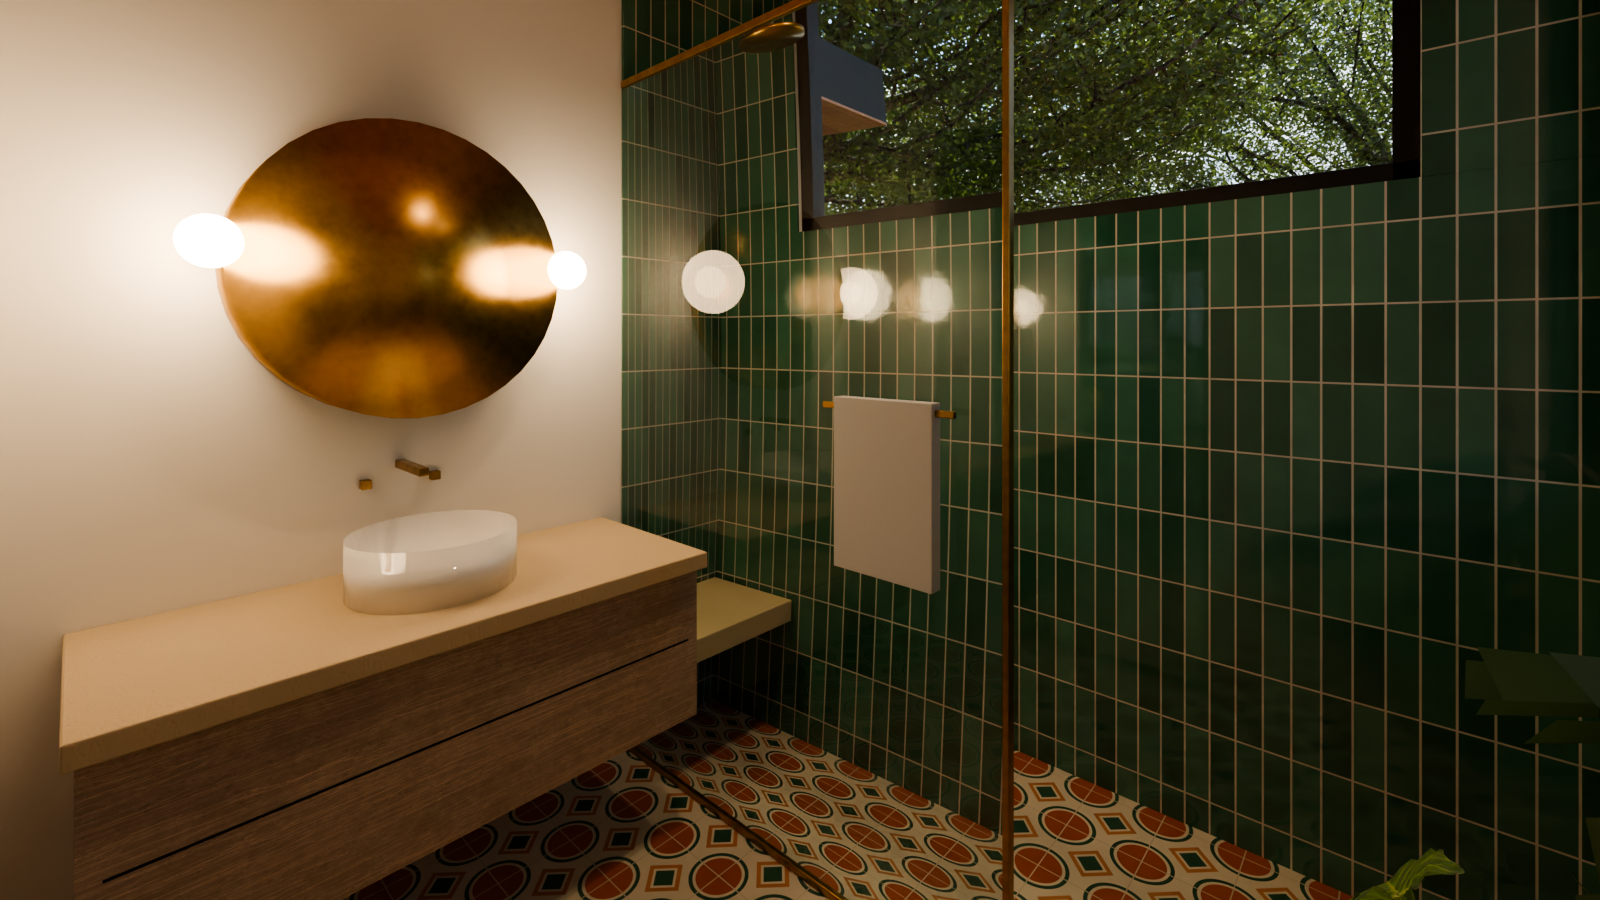
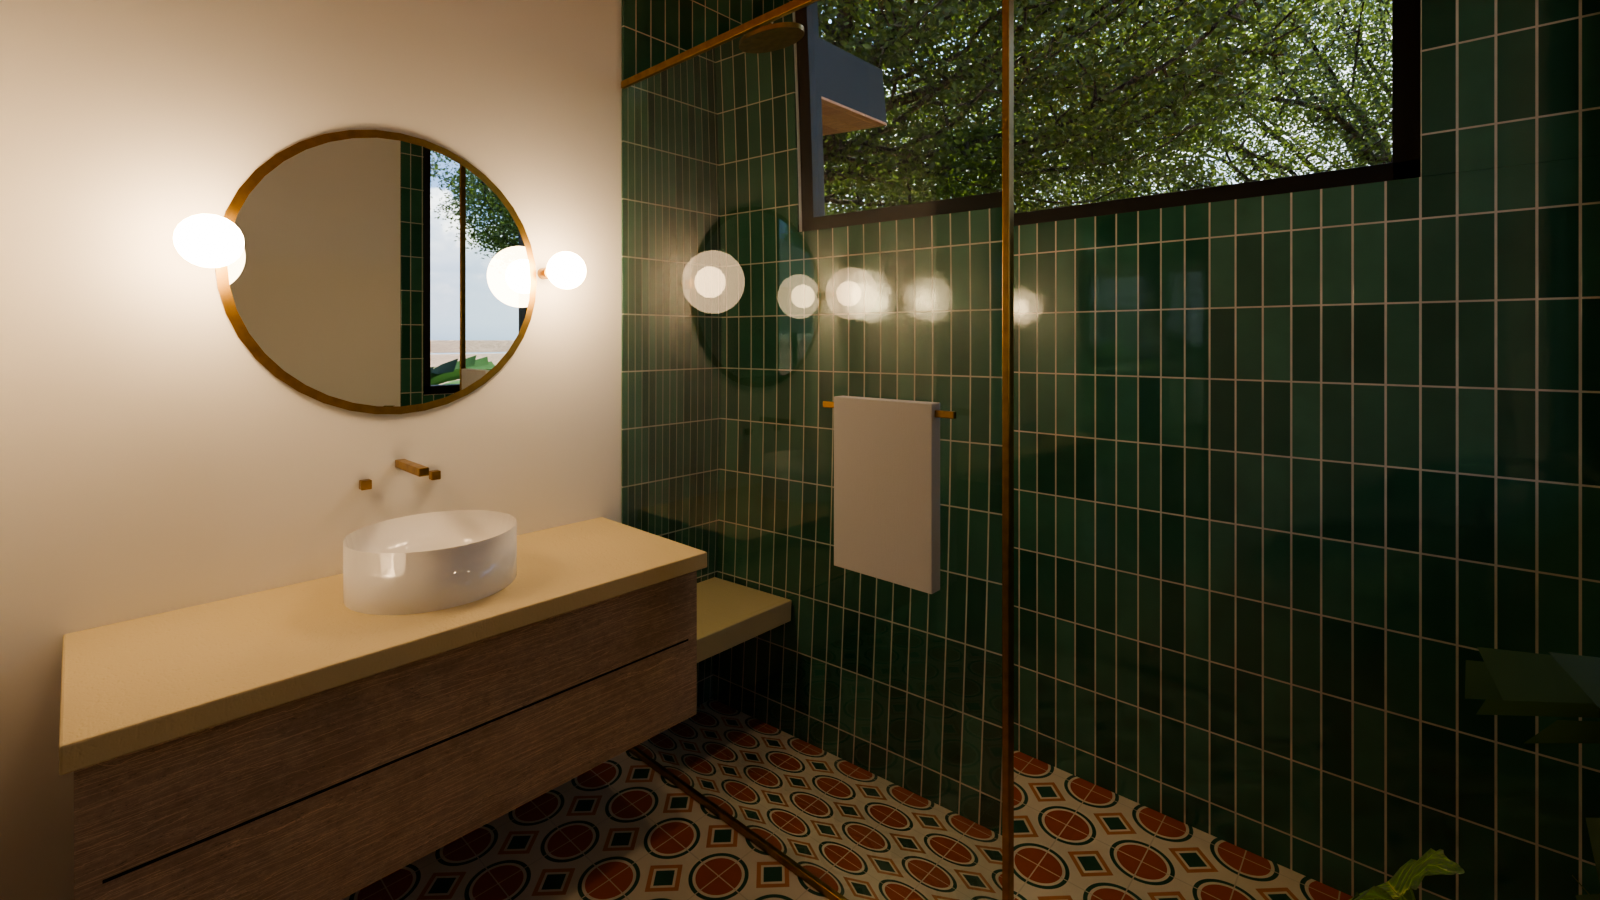
Fix slot window: cut the opening out of the limestone mortar bed; real 3D cobogó blocks and clearer glass in the web viewer
The mortar layer behind the limestone veneer was never punched for the
Bed 2 slot window, so the window read as a solid gray panel in the
renders and the 3D model. The web viewer's flat cut-out cobogó panel
faded out at distance and oblique angles; it is replaced by 210
instanced 12x12x4 blocks with real depth. Glass is now a dark low-E
tint instead of a milky veil, so rooms show through.

Claude-Session: https://claude.ai/code/session_01XdWRs5tEZnKaCsnygQJSQB

diff --git a/casa01/lookbook/web/index.html b/casa01/lookbook/web/index.html
@@ -2608,7 +2608,7 @@ footer{padding-block:48px 40px;color:var(--muted);font-size:12.5px;border-top:1p
 const M=0.3048, el=document.getElementById('viewer'), canvas=el.querySelector('canvas');
 const T=p=>new THREE.Vector3(p[0]*M,p[2]*M,-p[1]*M);
 const reduce=window.matchMedia('(prefers-reduced-motion: reduce)').matches;
-const MODEL='casa01_v2.gltf.json', LMAPS={"scale": 0.8854054635042798, "maps": {"House": "House.jpg", "Roof": "Roof.jpg", "Ground": "Ground.jpg", "Context": "Context.jpg"}}, SKY_AZ=304.2;
+const MODEL='casa01_v2.gltf.json', LMAPS={"scale": 0.8854054635042798, "maps": {"House": "House.jpg", "Roof": "Roof.jpg", "Ground": "Ground.jpg", "Context": "Context.jpg"}}, SKY_AZ=304.2, CB={"x0": 33.0, "x1": 54.0, "y": 30.0, "t": 0.33, "z0": 1.0, "z1": 11.0, "block": 1.0};
 let renderer;
 try{renderer=new THREE.WebGLRenderer({canvas,antialias:true});}catch(e){document.getElementById('loading').textContent='3D needs WebGL, which this browser has turned off. The renders and plans below still work.';return}
 renderer.setPixelRatio(Math.min(window.devicePixelRatio,2));
@@ -2645,12 +2645,32 @@ function onModel(g){
   root.traverse(o=>{if(/^(Roof|Cedar_soffits|Cedar soffits)/.test(o.name))o.traverse(c=>roofObjs.push(c));
     if(!o.isMesh)return;o.castShadow=true;o.receiveShadow=true;hit.push(o);
     (Array.isArray(o.material)?o.material:[o.material]).forEach(m=>{const n=m.name||'';
-      if(n==='web_glass'){m.transparent=true;m.opacity=0.2;m.depthWrite=false;m.metalness=0;m.roughness=0.03;m.envMapIntensity=1.6;o.castShadow=false}
+      if(n==='web_glass'){m.color.set(0x0b1214);m.transparent=true;m.opacity=0.34;m.depthWrite=false;m.metalness=0;m.roughness=0.02;m.envMapIntensity=0.9;o.castShadow=false}
       if(n==='web_cobogo'||n.startsWith('web_leafcard')){m.alphaTest=0.5;m.transparent=false;m.side=THREE.DoubleSide}
       if(n.startsWith('web_leafcard')){o.receiveShadow=true}
       if(LMAPS&&NM[n]&&!m.normalMap){m.normalMap=nmap(NM[n][0]);m.normalScale=new THREE.Vector2(NM[n][1],NM[n][1])}
       if(n==='web_floor'){m.roughness=0.22}
       if(m.map){m.map.anisotropy=renderer.capabilities.getMaxAnisotropy()}});});
+  // the cobogó: 210 real 12x12x4 blocks (one extruded block, instanced) instead of a flat cut-out
+  // picture, so the screen has depth and blocks the view at an angle like the real thing
+  root.traverse(o=>{if(/^Cobogo_screen/.test(o.name))o.traverse(c=>{c.visible=false})});
+  {const b=CB.block*M,h=b/2,rc=0.24*b,re=0.085*b,PI=Math.PI,sh=new THREE.Shape();
+    sh.moveTo(-h+rc,-h);sh.lineTo(-re,-h);sh.absarc(0,-h,re,PI,0,true);
+    sh.lineTo(h-rc,-h);sh.absarc(h,-h,rc,PI,PI/2,true);
+    sh.lineTo(h,-re);sh.absarc(h,0,re,1.5*PI,PI/2,true);
+    sh.lineTo(h,h-rc);sh.absarc(h,h,rc,1.5*PI,PI,true);
+    sh.lineTo(re,h);sh.absarc(0,h,re,0,-PI,true);
+    sh.lineTo(-h+rc,h);sh.absarc(-h,h,rc,0,-PI/2,true);
+    sh.lineTo(-h,re);sh.absarc(-h,0,re,PI/2,-PI/2,true);
+    sh.lineTo(-h,-h+rc);sh.absarc(-h,-h,rc,PI/2,0,true);
+    const hole=new THREE.Path();hole.absarc(0,0,0.30*b,0,2*PI,false);sh.holes.push(hole);
+    const geo=new THREE.ExtrudeGeometry(sh,{depth:CB.t*M,bevelEnabled:false,curveSegments:14});
+    const mat=new THREE.MeshStandardMaterial({name:'web_cobogo',color:new THREE.Color(0xd9d4c8),roughness:0.92,metalness:0});
+    const nx=Math.round((CB.x1-CB.x0)/CB.block),nz=Math.round((CB.z1-CB.z0)/CB.block);
+    const im=new THREE.InstancedMesh(geo,mat,nx*nz),mx=new THREE.Matrix4();let k=0;
+    for(let i=0;i<nx;i++)for(let j=0;j<nz;j++){mx.makeScale(0.985,0.985,1);
+      mx.setPosition((CB.x0+(i+0.5)*CB.block)*M,(CB.z0+(j+0.5)*CB.block)*M,-(CB.y+CB.t)*M);im.setMatrixAt(k++,mx)}
+    im.castShadow=true;im.receiveShadow=true;im.name='Cobogo_blocks';root.add(im);hit.push(im)}
   // baked sky + bounce light: each baked object gets its own material copies with its lightmap
   if(LMAPS){root.traverse(o=>{const key=LMAPS.maps[o.name];if(!key)return;const lm=tex('lm/'+key,true,false);
     o.traverse(c=>{if(!c.isMesh||!c.geometry.attributes.uv2)return;

diff --git a/casa01/lookbook/webpage.py b/casa01/lookbook/webpage.py
@@ -86,7 +86,7 @@ VIEWER_JS = r"""
 const M=0.3048, el=document.getElementById('viewer'), canvas=el.querySelector('canvas');
 const T=p=>new THREE.Vector3(p[0]*M,p[2]*M,-p[1]*M);
 const reduce=window.matchMedia('(prefers-reduced-motion: reduce)').matches;
-const MODEL='__MODEL__', LMAPS=__LIGHTMAPS__, SKY_AZ=__SKYAZ__;
+const MODEL='__MODEL__', LMAPS=__LIGHTMAPS__, SKY_AZ=__SKYAZ__, CB=__COBOGO__;
 let renderer;
 try{renderer=new THREE.WebGLRenderer({canvas,antialias:true});}catch(e){document.getElementById('loading').textContent='3D needs WebGL, which this browser has turned off. The renders and plans below still work.';return}
 renderer.setPixelRatio(Math.min(window.devicePixelRatio,2));
@@ -123,12 +123,32 @@ function onModel(g){
   root.traverse(o=>{if(/^(Roof|Cedar_soffits|Cedar soffits)/.test(o.name))o.traverse(c=>roofObjs.push(c));
     if(!o.isMesh)return;o.castShadow=true;o.receiveShadow=true;hit.push(o);
     (Array.isArray(o.material)?o.material:[o.material]).forEach(m=>{const n=m.name||'';
-      if(n==='web_glass'){m.transparent=true;m.opacity=0.2;m.depthWrite=false;m.metalness=0;m.roughness=0.03;m.envMapIntensity=1.6;o.castShadow=false}
+      if(n==='web_glass'){m.color.set(0x0b1214);m.transparent=true;m.opacity=0.34;m.depthWrite=false;m.metalness=0;m.roughness=0.02;m.envMapIntensity=0.9;o.castShadow=false}
       if(n==='web_cobogo'||n.startsWith('web_leafcard')){m.alphaTest=0.5;m.transparent=false;m.side=THREE.DoubleSide}
       if(n.startsWith('web_leafcard')){o.receiveShadow=true}
       if(LMAPS&&NM[n]&&!m.normalMap){m.normalMap=nmap(NM[n][0]);m.normalScale=new THREE.Vector2(NM[n][1],NM[n][1])}
       if(n==='web_floor'){m.roughness=0.22}
       if(m.map){m.map.anisotropy=renderer.capabilities.getMaxAnisotropy()}});});
+  // the cobogó: 210 real 12x12x4 blocks (one extruded block, instanced) instead of a flat cut-out
+  // picture, so the screen has depth and blocks the view at an angle like the real thing
+  root.traverse(o=>{if(/^Cobogo_screen/.test(o.name))o.traverse(c=>{c.visible=false})});
+  {const b=CB.block*M,h=b/2,rc=0.24*b,re=0.085*b,PI=Math.PI,sh=new THREE.Shape();
+    sh.moveTo(-h+rc,-h);sh.lineTo(-re,-h);sh.absarc(0,-h,re,PI,0,true);
+    sh.lineTo(h-rc,-h);sh.absarc(h,-h,rc,PI,PI/2,true);
+    sh.lineTo(h,-re);sh.absarc(h,0,re,1.5*PI,PI/2,true);
+    sh.lineTo(h,h-rc);sh.absarc(h,h,rc,1.5*PI,PI,true);
+    sh.lineTo(re,h);sh.absarc(0,h,re,0,-PI,true);
+    sh.lineTo(-h+rc,h);sh.absarc(-h,h,rc,0,-PI/2,true);
+    sh.lineTo(-h,re);sh.absarc(-h,0,re,PI/2,-PI/2,true);
+    sh.lineTo(-h,-h+rc);sh.absarc(-h,-h,rc,PI/2,0,true);
+    const hole=new THREE.Path();hole.absarc(0,0,0.30*b,0,2*PI,false);sh.holes.push(hole);
+    const geo=new THREE.ExtrudeGeometry(sh,{depth:CB.t*M,bevelEnabled:false,curveSegments:14});
+    const mat=new THREE.MeshStandardMaterial({name:'web_cobogo',color:new THREE.Color(0xd9d4c8),roughness:0.92,metalness:0});
+    const nx=Math.round((CB.x1-CB.x0)/CB.block),nz=Math.round((CB.z1-CB.z0)/CB.block);
+    const im=new THREE.InstancedMesh(geo,mat,nx*nz),mx=new THREE.Matrix4();let k=0;
+    for(let i=0;i<nx;i++)for(let j=0;j<nz;j++){mx.makeScale(0.985,0.985,1);
+      mx.setPosition((CB.x0+(i+0.5)*CB.block)*M,(CB.z0+(j+0.5)*CB.block)*M,-(CB.y+CB.t)*M);im.setMatrixAt(k++,mx)}
+    im.castShadow=true;im.receiveShadow=true;im.name='Cobogo_blocks';root.add(im);hit.push(im)}
   // baked sky + bounce light: each baked object gets its own material copies with its lightmap
   if(LMAPS){root.traverse(o=>{const key=LMAPS.maps[o.name];if(!key)return;const lm=tex('lm/'+key,true,false);
     o.traverse(c=>{if(!c.isMesh||!c.geometry.attributes.uv2)return;
@@ -383,7 +403,8 @@ def write_web(img):
                     f'<th>Water</th></tr>{tr}</table></div></div></section>')
 
     js = (VIEWER_JS.replace("__FINISHES__", json.dumps(FINISH_INFO)).replace("__MODEL__", model)
-          .replace("__LIGHTMAPS__", json.dumps(lmaps)).replace("__SKYAZ__", "304.2"))
+          .replace("__LIGHTMAPS__", json.dumps(lmaps)).replace("__SKYAZ__", "304.2")
+          .replace("__COBOGO__", json.dumps({k: D.COBOGO[k] for k in ("x0", "x1", "y", "t", "z0", "z1")} | {"block": D.BLOCK})))
     pbtn = "".join(f'<button data-pano="{k}" aria-pressed="false">{lab}</button>' for k, lab in panos)
     tour = ('<section class="block" id="tour"><div class="eyebrow">360° tour</div><h2>Stand inside the renders</h2>'
             '<p class="lede">Full photoreal 360° views from the render engine. Drag to look around in every direction; '

diff --git a/casa01/render/house.py b/casa01/render/house.py
@@ -188,8 +188,9 @@ def _limestone_wall(L, coll):
     w = D.EXT_WALLS[0]
     o = w["openings"][0]
     hole = (w["a"][0] + o["off"], w["a"][0] + o["off"] + o["w"], FF + o["sill"], FF + o["head"])
-    mort.box(lw["x0"], yf + 0.06, lw["z0"], lw["x1"], yb, lw["z1"])
-    # punch the mortar plane around the window
+    # mortar bed behind the stones, with the window opening cut out of it
+    for (a0, a1, b0, b1) in subtract_rect((lw["x0"], lw["x1"], lw["z0"], lw["z1"]), hole):
+        mort.box(a0, yf + 0.06, b0, a1, yb, b1)
     courses = []
     z = lw["z0"]
     pattern = [0.667, 0.333, 1.0, 0.333, 0.667, 0.667, 1.0, 0.333]
